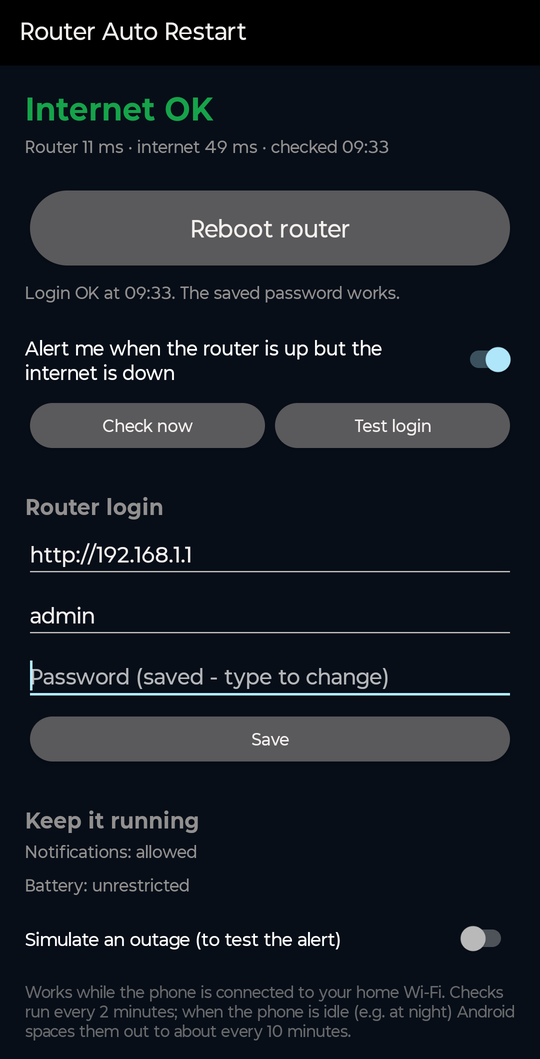
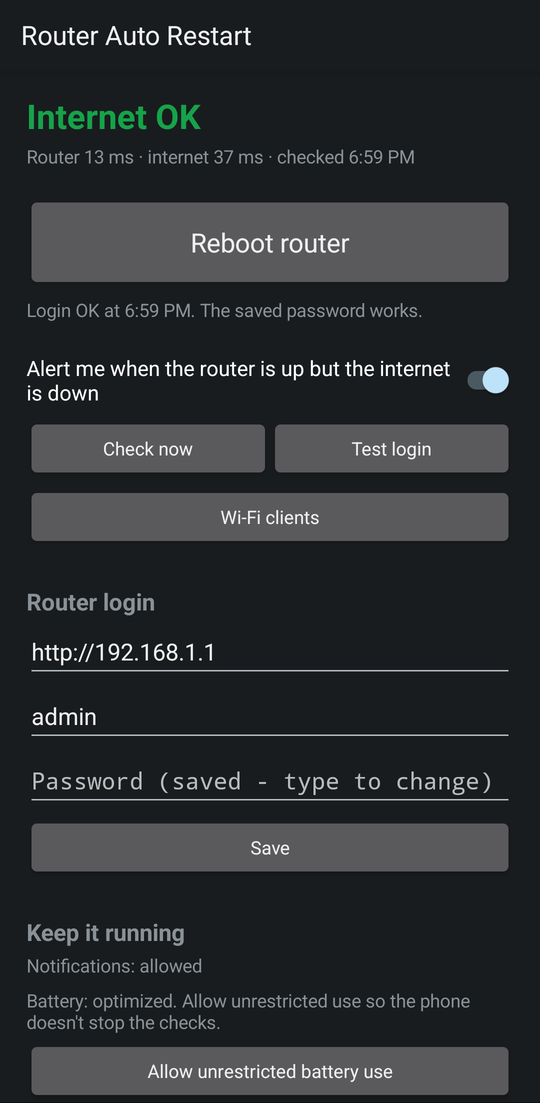
Document 3.0.0 Wi-Fi clients and blocking, with screenshots
- README: new "Wi-Fi clients and blocking (new in 3.0.0)" section (how to use,
  command line, how it works, limitations), feature list, Android section,
  compatibility table, logs and layout
- docs/android.md: Wi-Fi clients section; troubleshooting and security notes
- Screenshots (sample data and documentation addresses only, client lists from
  the simulated router): Wi-Fi clients window and Android screen in light and
  dark, plus refreshed dashboard and Android main screen with the new button

diff --git a/README.md b/README.md
@@ -2,7 +2,8 @@
 
 Scheduled restarts for home routers that can't restart themselves on a schedule, driven from a
 Windows PC. It includes a countdown window that lets you postpone or skip a restart, an internet
-watchdog, a dashboard and, since 2.2.0, an Android companion app.
+watchdog, a dashboard and, since 2.2.0, an Android companion app. **New in 3.0.0:** see the devices on
+each Wi-Fi network and block or unblock their internet access, from the PC or the phone.
 
 <picture>
   <source media="(prefers-color-scheme: dark)" srcset="docs/images/dashboard-dark.png">
@@ -33,6 +34,50 @@ interface, exactly as you would in a browser, and presses its restart button for
 - **Credentials** are stored in Windows Credential Manager. They never go in files, logs, task arguments or URLs.
 - **Android companion app (optional, new in 2.2.0):** alerts on your phone when the router is up but
   the internet is down, and restarts the router with one tap. See [Android companion app](#android-companion-app).
+- **Wi-Fi clients and internet blocking (new in 3.0.0):** lists the devices on each SSID and blocks or
+  unblocks a device's internet access with one click, on the PC and on the phone. See
+  [Wi-Fi clients and blocking](#wi-fi-clients-and-blocking-new-in-300).
+
+## Wi-Fi clients and blocking (new in 3.0.0)
+
+<picture>
+  <source media="(prefers-color-scheme: dark)" srcset="docs/images/clients-dark.png">
+  <img src="docs/images/clients-light.png" alt="Wi-Fi clients window: devices grouped by SSID with name, MAC address, IP address and signal, Block and Unblock buttons, a blocked device marked Blocked, and view-only extra SSIDs" width="460">
+</picture>
+<picture>
+  <source media="(prefers-color-scheme: dark)" srcset="docs/images/android-clients-dark.png">
+  <img src="docs/images/android-clients-light.png" alt="Android Wi-Fi clients screen with the same devices, Block and Unblock buttons" width="250">
+</picture>
+
+- **See who's connected.** Devices are grouped under each SSID (Wi-Fi network name) with their name,
+  MAC address, IP address and signal strength. Devices the router counts but doesn't name, for example
+  ones with a fixed IP address, are shown as a count instead of being guessed.
+- **Block / Unblock** cuts a device's internet access, or gives it back, in a few seconds. The device
+  stays connected to Wi-Fi, and nobody else is disconnected. A device that's blocked but offline is
+  still listed, so you can always unblock it.
+- **Where:** the **Wi-Fi clients** button on the dashboard, the **Wi-Fi clients** button in the Android
+  app, or the command line:
+
+  ```powershell
+  .\.venv\Scripts\python.exe src\routerctl.py clients                     # devices by SSID
+  .\.venv\Scripts\python.exe src\routerctl.py block 00:00:5e:00:53:12     # cut its internet
+  .\.venv\Scripts\python.exe src\routerctl.py unblock 00:00:5e:00:53:12   # give it back
+  ```
+
+**How it works.** The app uses the router's own Parental Control. A block is a rule for the device's
+MAC address that applies every day from 00:00 to 23:59, named `RC-<mac>`. Rules you created in the
+router's web page are never changed, and Parental Control is switched off again only when no rules
+are left. After every change the app reads the rule table back from the router, and reports an
+error if the change didn't take effect.
+
+**Limitations** (GX GPON E4222, checked on a real router):
+
+- Blocking works on each band's **main** SSID. The router's block doesn't apply to its extra (virtual)
+  SSIDs, so devices there are listed as view-only.
+- The router allows one admin session at a time. If you're logged in to its web page in a browser,
+  close that first.
+- The rule follows the router's clock. If that clock is wrong, there can be about a minute a day,
+  around midnight by the router's clock, when the block isn't applied.
 
 ## Screenshots
 
@@ -42,7 +87,8 @@ interface, exactly as you would in a browser, and presses its restart button for
 | **Editing the schedule** | **Light theme** |
 | <img src="docs/images/schedule-dialog.png" alt="Schedule dialog with restart time, interval in days and countdown length" width="330"> | <img src="docs/images/dashboard-light.png" alt="Dashboard in the light theme" width="400"> |
 
-*The screenshots use sample data and documentation addresses (192.0.2.1, 198.51.100.23).*
+*The screenshots use sample data and documentation addresses (192.0.2.1, 198.51.100.23,
+00:00:5e:00:53:xx). The Wi-Fi client lists come from the project's simulated router.*
 
 **Limitations:** Windows 10/11 only. One verified router model. The scheduled task runs only while
 you're logged on, because the countdown appears on your desktop. If the PC is off or asleep at the
@@ -58,14 +104,17 @@ the router answers but the internet doesn't. When that happens you get a notific
 - Works on its own. The Windows app doesn't need to be running.
 - Same login protocol and restart safety rules as the Windows app: the restart is sent once, never
   retried, and refused for 10 minutes after one was sent.
+- **New in 3.0.0:** a **Wi-Fi clients** screen lists the devices on each SSID and blocks or unblocks
+  their internet access, the same way as the Windows app (see [above](#wi-fi-clients-and-blocking-new-in-300)).
 - The password is encrypted with a key in the Android Keystore. No telemetry, no third-party libraries.
 
-| Main screen | Outage alert | Internet back |
-|---|---|---|
-| <picture><source media="(prefers-color-scheme: dark)" srcset="docs/images/android-main-dark.png"><img src="docs/images/android-main-light.png" alt="Android app main screen: Internet OK status, Reboot router button, alert switch, router login and Keep it running sections" width="250"></picture> | <img src="docs/images/android-alert.png" alt="Notification: No internet at home (test), router reachable but internet down since 09:33, with a Reboot router button" width="300"> | <img src="docs/images/android-recovered.png" alt="Notification: Internet is back, it was down for less than a minute" width="300"> |
+| Main screen | Wi-Fi clients (new in 3.0.0) | Outage alert | Internet back |
+|---|---|---|---|
+| <picture><source media="(prefers-color-scheme: dark)" srcset="docs/images/android-main-dark.png"><img src="docs/images/android-main-light.png" alt="Android app main screen: Internet OK status, Reboot router button, alert switch, Check now, Test login and Wi-Fi clients buttons, router login and Keep it running sections" width="220"></picture> | <picture><source media="(prefers-color-scheme: dark)" srcset="docs/images/android-clients-dark.png"><img src="docs/images/android-clients-light.png" alt="Android Wi-Fi clients screen: devices by SSID with Block and Unblock buttons" width="220"></picture> | <img src="docs/images/android-alert.png" alt="Notification: No internet at home (test), router reachable but internet down since 09:33, with a Reboot router button" width="260"> | <img src="docs/images/android-recovered.png" alt="Notification: Internet is back, it was down for less than a minute" width="260"> |
 
-*Android screenshots are from a real phone, with the status bar cropped out. The alert was triggered
-with the app's Simulate an outage switch.*
+*The notification screenshots are from a real phone, with the status bar cropped out; the alert was
+triggered with the app's Simulate an outage switch. The 3.0.0 screens are from the Android emulator,
+and the client list comes from the project's simulated router with sample devices.*
 
 Download `router-auto-restart-<version>.apk` from the project's
 [Releases](https://github.com/svrsunny/windows-router-auto-restart/releases).
@@ -75,7 +124,7 @@ Setup, how it works, permissions and building from source are in [docs/android.m
 
 | `router_model` | Device | Firmware | Status |
 |---|---|---|---|
-| `gx-gpon-e4222` | GX GPON ONT (web UI with captcha and `postSecurityFlag` checksum) | E4222-3.0.5-R | Verified on one device: login, dry run, restart, recovery |
+| `gx-gpon-e4222` | GX GPON ONT (web UI with captcha and `postSecurityFlag` checksum) | E4222-3.0.5-R | Verified on one device: login, dry run, restart, recovery; Wi-Fi client list, internet block and unblock (3.0.0) |
 
 Other routers need an adapter. See [docs/router-compatibility.md](docs/router-compatibility.md).
 
@@ -191,7 +240,7 @@ so the pinned icon and the open window share one button.
 ## Logs and troubleshooting
 
 - `logs\router-auto-restart.log` is the human-readable activity log. Passwords are never written, and redacted if they ever appear.
-- `logs\events.jsonl` is the structured history (restarts, login tests, outages) behind the dashboard's uptime figures.
+- `logs\events.jsonl` is the structured history (restarts, login tests, outages, blocks and unblocks) behind the dashboard's uptime figures.
 - `.\.venv\Scripts\python.exe src\routerctl.py status` prints a one-screen summary.
 
 Common problems and exit codes are covered in [docs/troubleshooting.md](docs/troubleshooting.md).
@@ -220,10 +269,10 @@ src/routerctl.py              command line (all scripts call this)
 src/RouterControl.pyw         double-click launcher for the dashboard
 src/routerkit/                the application
   routers/                    one adapter per router model (+ template.py)
-  actions.py                  restart, recovery check, diagnostics, duplicate protection
+  actions.py                  restart, recovery check, diagnostics, duplicate protection, client list and blocking
   scheduler.py                Windows Task Scheduler integration
   credentials.py              Windows Credential Manager access
-  ui/                         dashboard, countdown window, watchdog pop-up
+  ui/                         dashboard, countdown window, watchdog pop-up, Wi-Fi clients window
 scripts/                      PowerShell entry points (Install, Configure, Test, Restart, Register, Remove, Shortcut, Uninstall)
 config/config.example.json    example configuration (placeholders only)
 docs/                         detailed guides

diff --git a/docs/android.md b/docs/android.md
@@ -1,24 +1,27 @@
 # Android companion app
 
 Since version 2.2.0 the project includes a companion app for Android phones. It appears on the phone
-as **Router Auto Restart** and does two things:
+as **Router Auto Restart** and does three things:
 
 1. **Alerts you** when the router answers but the internet doesn't, for example an overnight outage
    that a router restart would fix.
 2. **Restarts the router** with one tap: the **Reboot router** button in the app (with a confirmation),
    or the **Reboot router** button on the alert notification.
+3. **Shows the devices on each Wi-Fi network and blocks or unblocks their internet access** (new in
+   3.0.0). See [Wi-Fi clients](#wi-fi-clients-new-in-300).
 
 It works independently of the Windows app: it doesn't need the PC to be on. You can use either one,
 or both.
 
-| Main screen (dark / light) | Outage alert | Internet back |
-|---|---|---|
-| <img src="images/android-main-dark.png" alt="Main screen in the dark theme" width="200"> <img src="images/android-main-light.png" alt="Main screen in the light theme" width="200"> | <img src="images/android-alert.png" alt="Outage alert notification with a Reboot router button" width="280"> | <img src="images/android-recovered.png" alt="Internet is back notification" width="280"> |
+| Main screen (dark / light) | Wi-Fi clients (3.0.0) | Outage alert | Internet back |
+|---|---|---|---|
+| <img src="images/android-main-dark.png" alt="Main screen in the dark theme" width="180"> <img src="images/android-main-light.png" alt="Main screen in the light theme" width="180"> | <img src="images/android-clients-light.png" alt="Wi-Fi clients screen: devices by SSID with Block and Unblock buttons" width="180"> | <img src="images/android-alert.png" alt="Outage alert notification with a Reboot router button" width="260"> | <img src="images/android-recovered.png" alt="Internet is back notification" width="260"> |
 
 - [Requirements](#requirements)
 - [Install](#install)
 - [Set up](#set-up)
 - [Test the alert](#test-the-alert)
+- [Wi-Fi clients (new in 3.0.0)](#wi-fi-clients-new-in-300)
 - [How it works](#how-it-works)
 - [Permissions](#permissions)
 - [Security and privacy](#security-and-privacy)
@@ -85,6 +88,26 @@ Turn on **Simulate an outage** at the bottom of the app. Within about 15 seconds
 *No internet at home (test)* alert. Turn the switch off and you get *Internet is back*.
 
 > The **Reboot router** button on the test alert is real: it restarts the router.
+
+## Wi-Fi clients (new in 3.0.0)
+
+Tap **Wi-Fi clients** on the main screen. The app logs in to the router over Wi-Fi and lists the
+devices on each SSID with their name, MAC address, IP address and signal. Tap **Refresh** to read it
+again.
+
+- **Block** asks for confirmation, then cuts that device's internet access. The device stays on
+  Wi-Fi, and no other device is disconnected. **Unblock** gives it back. After each change the app
+  reads the router's rule table again and shows the result, or an error if the router didn't keep
+  the change.
+- A block is a Parental Control rule on the router named `RC-<mac>`, for every day from 00:00 to
+  23:59. Blocks made from the Windows app and from the phone are the same rules, so either app can
+  undo the other's. Rules you made yourself in the router's web page are never changed.
+- Devices on the router's extra (virtual) SSIDs are listed as view-only: the router's block doesn't
+  apply there. Devices the router counts but doesn't name (fixed IP address) appear as a count.
+- A blocked device that isn't connected is listed under *Blocked, not connected now*, so you can still
+  unblock it.
+- The router allows one admin session at a time. If its web page is open in a browser, or the
+  Windows app is using it, the app says so. Try again when it's free.
 
 ## How it works
 
@@ -153,7 +176,8 @@ The app doesn't ask for location, storage, contacts or accounts.
   is `http://`. The login then travels unencrypted on your local network, as it does from a browser.
   If the router uses `https://`, certificates are verified normally and there is no way to turn that off.
 - **Network.** The app talks only to your router and to the three probe addresses above. There's no
-  telemetry, no analytics, no ads and no update check.
+  telemetry, no analytics, no ads and no update check. The Wi-Fi client list is read from the router
+  when you open it and isn't stored.
 - **Code.** Plain Java with no third-party libraries. The source is in [`android/`](../android).
 
 ## Limitations
@@ -166,6 +190,8 @@ The app doesn't ask for location, storage, contacts or accounts.
   at the same address, an outage there can also trigger an alert. A restart from there fails at the
   login unless the password happens to be the same.
 - Checks are delayed while the phone is idle (see [Timing](#how-it-works)).
+- Blocking works only on the main SSIDs, and follows the router's clock (see
+  [Wi-Fi clients](#wi-fi-clients-new-in-300) and [router compatibility](router-compatibility.md)).
 
 ## Troubleshooting
 

diff --git a/docs/troubleshooting.md b/docs/troubleshooting.md
@@ -68,6 +68,20 @@ Shortcuts to `.py` or `.pyw` files can't be pinned. Run `.\scripts\New-Shortcut.
 **Dashboard says "Watchdog: Not running"**
 Click *Start*, or register it with `Register-ScheduledTask.ps1 -WithWatchdog`.
 
+**Wi-Fi clients: a device I blocked still has internet**
+Check which SSID it's on. The block applies on each band's main SSID, not on the router's extra
+(virtual) SSIDs, which are listed as view-only. Also check the phone or laptop isn't using mobile
+data. The rule follows the router's own clock, so a wrong router time can leave a short gap.
+
+**Wi-Fi clients: "the router did not keep the block" / "did not remove the block"**
+The router answered but its Parental Control table doesn't show the change. Nothing else was
+changed. Open the router's *Parental Control* page to look, then try again. Rules the app made are
+named `RC-<mac>`.
+
+**Wi-Fi clients: a network shows "the router reports N devices … that it doesn't list"**
+Those devices aren't in the router's DHCP list, usually because they use a fixed IP address. The
+router only reports how many there are.
+
 **Test the watchdog pop-up without an outage**
 Create the file `data\force_down.flag` while the watchdog runs (the internet then counts as down)
 and delete it to end the test. To see the pop-ups only: `.\.venv\Scripts\python.exe src\routerctl.py watchdog --demo`.

diff --git a/docs/security.md b/docs/security.md
@@ -56,6 +56,16 @@ There's no telemetry and no update check.
 - Login attempts are bounded (`login_attempts`, default 3). An "admin session already open" response is never retried.
 - `Test-Connection.ps1` and `reboot --dry-run` log in and out but never restart.
 
+## Wi-Fi clients and blocking (3.0.0)
+
+- Listing clients only reads router pages. It changes nothing, and the list isn't saved.
+- Block and Unblock change only Parental Control rules named `RC-<mac>`, plus the Parental Control
+  switch. Rules you created yourself are never edited or deleted, and the switch is turned off
+  only when no rules at all are left. Every change is checked by reading the rule table back.
+- Requests that change settings are never re-sent automatically.
+- Blocks and unblocks are recorded in `logs\events.jsonl` with the device's MAC address. Treat the
+  log as private, like any list of your devices.
+
 ## Android companion app
 
 The Android companion app keeps the router password on the phone, encrypted with AES-GCM under a key held

diff --git a/CHANGELOG.md b/CHANGELOG.md
@@ -15,6 +15,9 @@
   listed as view-only.
 - Android: router sessions now take turns (the router allows one admin session), and form posts that
   change settings are never silently re-sent.
+- Docs: README section *Wi-Fi clients and blocking*, Android guide, troubleshooting and security notes.
+  New screenshots of the Wi-Fi clients screens, and updated dashboard and Android main-screen
+  screenshots showing the new button (sample data only).
 
 ## 2.2.1
 
